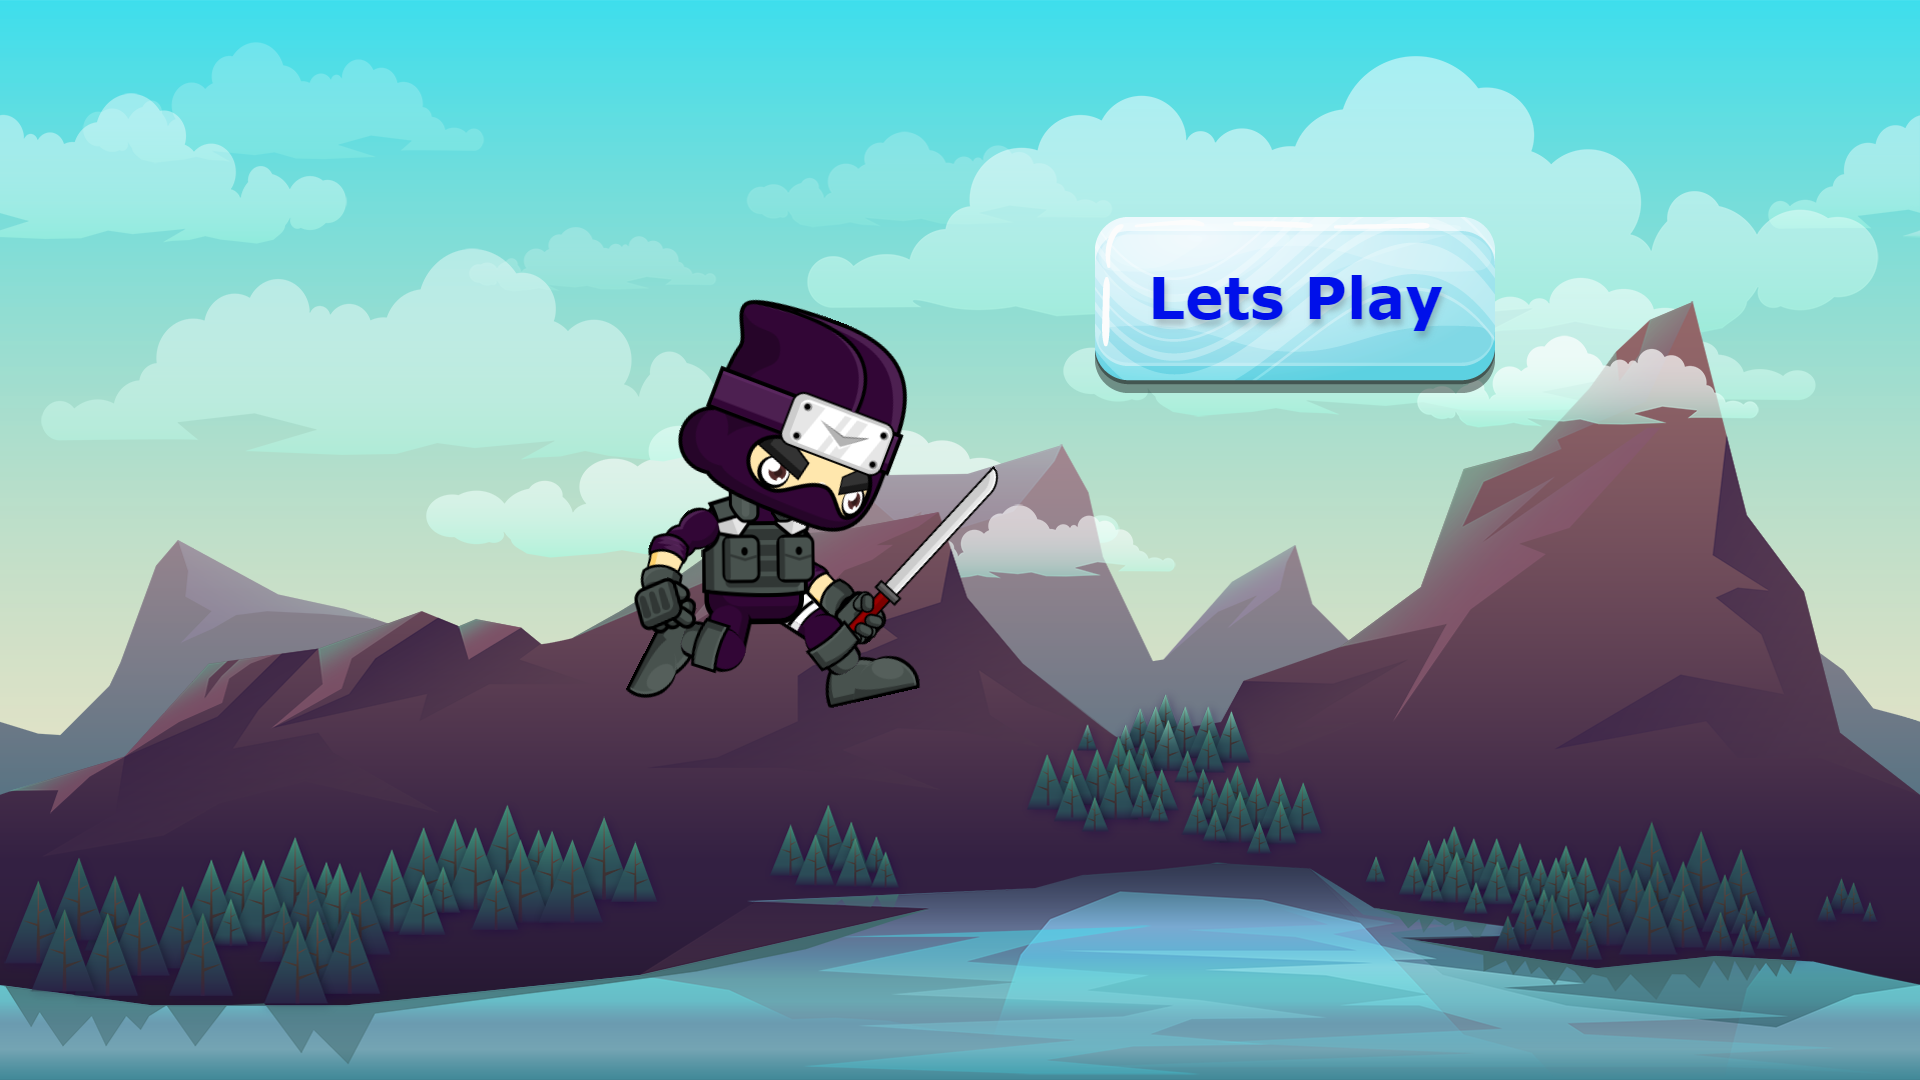
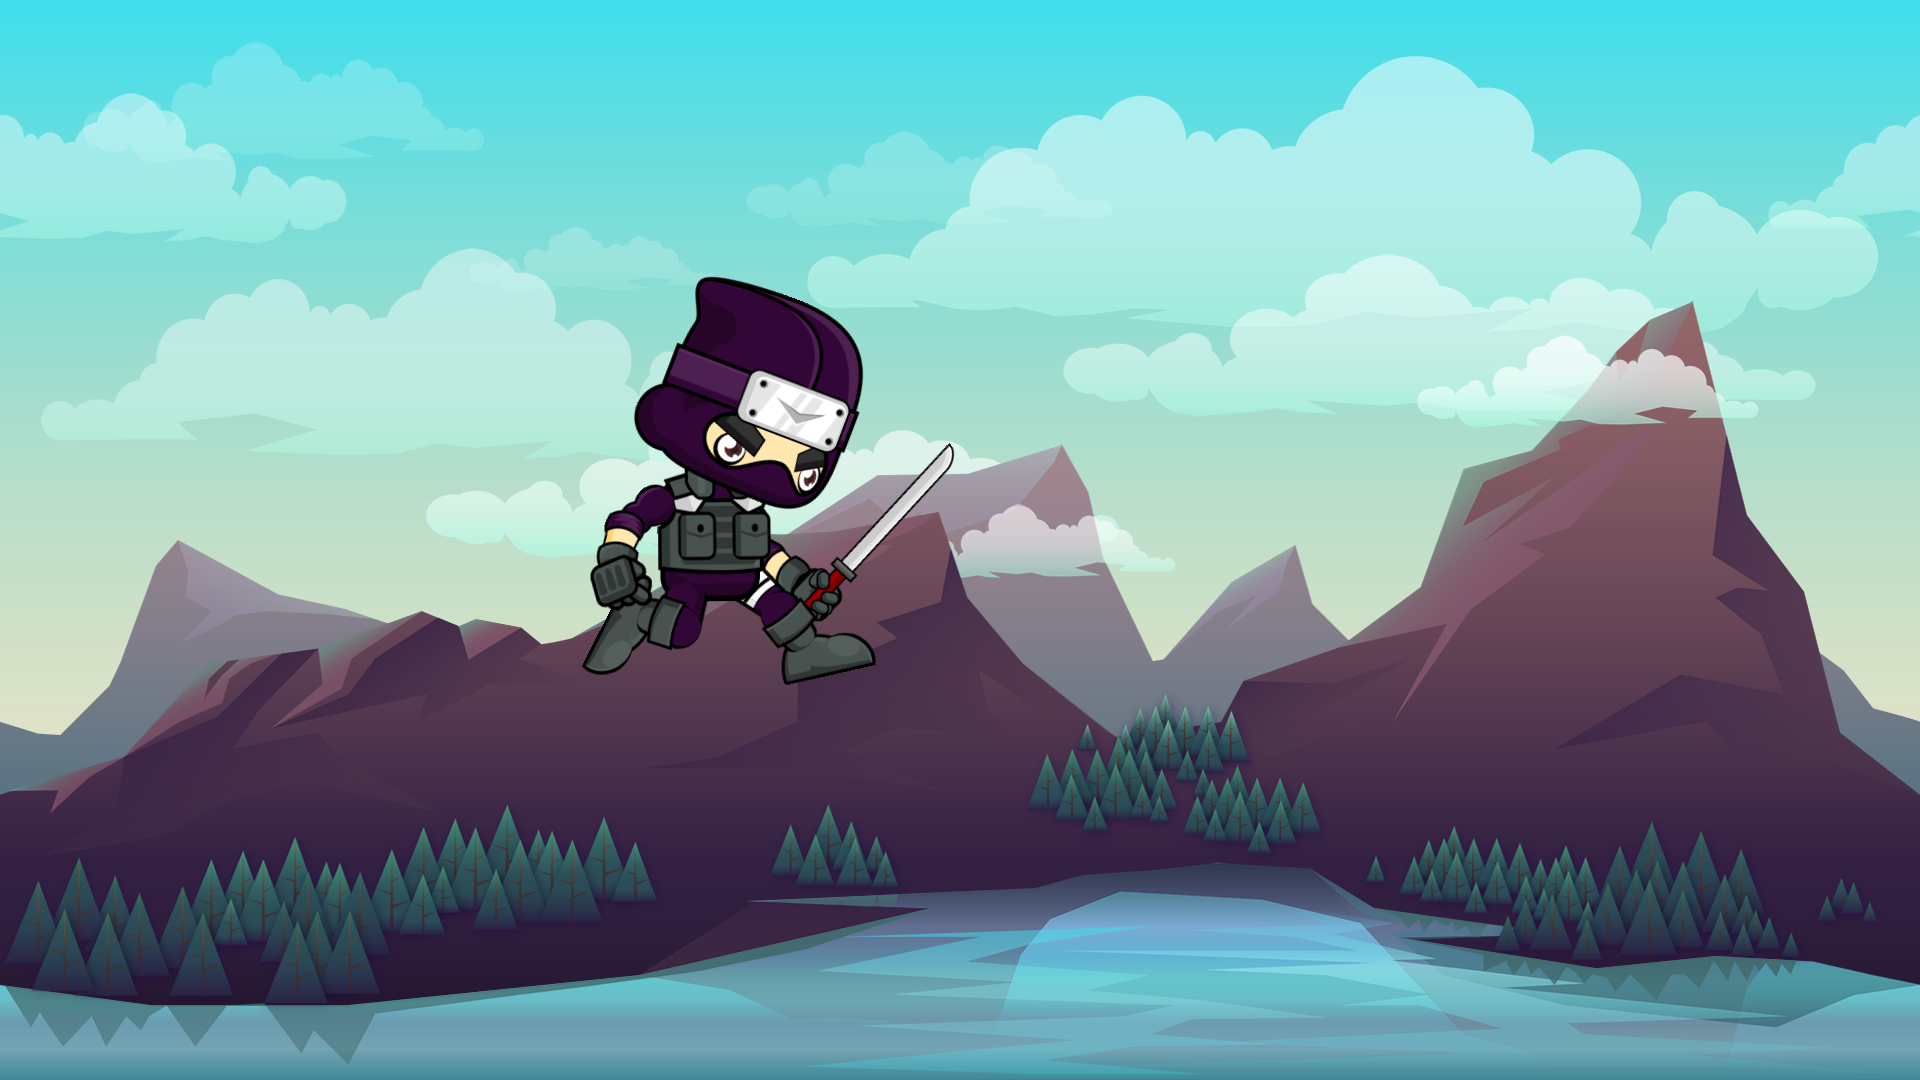
start and endscreens

Changed region(s): [[0.2812, 0.2444, 0.5312, 0.6722], [0.5625, 0.1833, 0.7812, 0.3667]]

diff --git a/style.css b/style.css
@@ -22,11 +22,14 @@ body {
 }
 
 h1 {
-    font-size: 40px;
-    font-weight: bolder;
+    margin: 0;
 }
 
-.d-none {
+#helpScreen{
+    display: none;
+}
+
+#btnScreen{
     display: none;
 }
 
@@ -43,89 +46,74 @@ canvas {
     margin-top: 10px;
 }
 
-.btnContainer {
+.playBtnContainer {
     display: flex;
     justify-content: space-evenly;
     width: 150px;
 }
 
-.btnContainer button {
+.playBtnContainer button {
     background-color: transparent;
     border-color: transparent;
 }
 
-.btnContainer img {
+.playBtnContainer img {
     width: 50px;
     height: 50px;
 }
 
 
 #startScreen {
-    height: 100vh;
-    width: 100vw;
+    height: 480px;
+    width: 780px;
     display: flex;
     justify-content: left;
     align-items: start;
     overflow: hidden;
     background-image: url('img/start_screen.png');
-    background-size: 100%;
+    background-size: cover;
     background-repeat: no-repeat;
-    max-width: 1000px;
+    border-radius: 30px;
 }
 
-#helpScreen{
-    display: none;
-}
-
-#BtnScreen{
-    display: none;
-}
 
 .btn {
     margin-top: 1%;
     margin-left: 1%;
+    cursor: pointer;
     border-color: transparent;
     background-color: transparent;
-    width: 235px;
-    height: 90px;
+    width: 150px;
+    height: 60px;
 }
 
 .btn img{
     border-radius: 20px;
-    width: 100%;
-    height: 100%;
+    width: 150px;
+    height: 60px;
 }
 
 .startImg {
-    max-width: 1000px;
+    height: 480px;
+    width: 780px;
+    border-radius: 30px;
+}
+
+
+.finishedGame {
+    cursor: pointer;
+    display: none;
+    flex-direction: column;
+    justify-content: center;
+    align-items: center;
+    overflow: hidden;
+    transition: all 2s ease-in-out;
+    transform: scale(1.0);
+}
+
+.finGameScreen{
     width: 100%;
-}
-
-.winnerImg {
-    max-width: 1000px;
-    min-width: 780;
-}
-
-#GameOverScreen {
-    position: absolute;
-    top: 10%;
-    flex-direction: column;
-    justify-content: center;
-    align-items: center;
-    overflow: hidden;
-    transition: all 2s ease-in-out;
-    transform: scale(1.0);
-}
-
-#wonGameScreen {
-    position: absolute;
-    top: 10%;
-    flex-direction: column;
-    justify-content: center;
-    align-items: center;
-    overflow: hidden;
-    transition: all 2s ease-in-out;
-    transform: scale(1.0);
+    object-fit: cover;
 }
 
 .restartBtn {
@@ -137,11 +125,28 @@ canvas {
 /* smartphone */
 @media only screen and (max-width: 780px) {
     canvas {
-        width: 100%;
+        width: 80%;
+    }
+
+    body {
+        background-size: cover;
+        background-repeat: no-repeat;
+    }
+
+    #startScreen, #helpScreen, #btnScreen, .finishedGame {
+        width: 100vw;
+        border-radius: 0;
     }
 
     .panelContainer {
         display: flex;
+    }
+
+    .startImg, .finGameScreen {
+        height: 100%;
+        width: 100%;
+        border-radius: 0px;
+        object-fit: cover;
     }
 
     h1 {
@@ -152,11 +157,16 @@ canvas {
 /* smartphone */
 @media only screen and (max-height: 480px) {
     canvas {
-        height: 90vh;
+        height: 80vh;
+    }
+
+    #startScreen, #helpScreen, #btnScreen, .finishedGame {
+        height: 100vh;
     }
 
     .panelContainer {
         display: flex;
+        margin-top: 2px;
     }
 
     h1 {

diff --git a/index.html b/index.html
@@ -30,12 +30,12 @@
 
 <body>
 
-    <h1>HENRY THE BRAVE NINJA</h1>
+    <h1><img src="img/headline.png" alt="Henry the brave Ninja"></h1>
 
-    <div id="startScreen" onclick="hideStartScreen()">
-        <button onclick="showButtonScreen()" class="btn"><img src="img/btn_buttons2.png"></button>;
-        <button onclick="showHelpScreen()" class="btn"><img src="img/btn_help2.png"></button>;
-        <!-- <img src="img/start_screen.png" class="startImg"> -->
+    <div id="startScreen" >
+            <button onclick="showButtonScreen()" class="btn"><img src="img/btn_buttons.png"></button>;
+            <button onclick="showHelpScreen()" class="btn"><img src="img/btn_help.png"></button>;
+            <button onclick="hideStartScreen()" class="btn"><img src="img/btn_letsplay.png"></button>;
     </div>
     <div id="helpScreen" onclick="showStartScreen()">
         <img src="img/help_screen.png" class="startImg">
@@ -47,23 +47,23 @@
     <canvas id="canvas" height="480px" width="780px">
 
     </canvas>
-    <div class="panelContainer">
-        <div class="btnContainer">
+    <div id="GameOverScreen" class="finishedGame">
+        <img src="img/Game_Over.png" class="finGameScreen" onclick="window.location.reload();">
+        <!-- <img src="img/restartBtn.png" class="restartBtn" onclick="window.location.reload();"> -->
+    </div>
+    <div id="wonGameScreen" class="finishedGame">
+        <img src="img/winner.jpg" class="finGameScreen" onclick="window.location.reload();">
+        <!-- <img src="img/restartBtn.png" class="restartBtn" onclick="window.location.reload();"> -->
+    </div>
+    <div id="panelcontainer" class="panelContainer">
+        <div class="playBtnContainer">
             <button id="btnLeft"><img src="img/icon/arrow-left.png"></button>
             <button id="btnRight"><img src="img/icon/arrow-right.png"></button>
         </div>
-        <div class="btnContainer">
+        <div class="playBtnContainer">
             <button id="btnUp"><img src="img/icon/arrow-up.png"></button>
             <button id="btnThrow"><img src="img/icon/arrow-throw.png"></button>
         </div>
-    </div>
-    <div id="GameOverScreen" class="d-none">
-        <img src="img/Game_Over.png" class="startImg">
-        <img src="img/restartBtn.png" class="restartBtn" onclick="window.location.reload();">
-    </div>
-    <div id="wonGameScreen" class="d-none">
-        <img src="img/winner.jpg" class="winnerImg">
-        <img src="img/restartBtn.png" class="restartBtn" onclick="window.location.reload();">
     </div>
 </body>
 

diff --git a/js/game.js b/js/game.js
@@ -11,28 +11,32 @@ function init() {
 
 function hideStartScreen() {
     document.getElementById('startScreen').style.display = "none";
-    checkIfInitGame()
+    document.getElementById('helpScreen').style.display = "none";
+    document.getElementById('btnScreen').style.display = "none";
+    document.getElementById('canvas').style.display = "block";
+    init();
 }
 
 function showStartScreen() {
     document.getElementById('startScreen').style.display = "flex";
     document.getElementById('helpScreen').style.display = "none";
     document.getElementById('btnScreen').style.display = "none";
-    checkIfInitGame()
+    document.getElementById('canvas').style.display = "none";
+    // checkIfInitGame();
 }
 
 function showHelpScreen() {
     document.getElementById('startScreen').style.display = "none";
     document.getElementById('helpScreen').style.display = "block";
     document.getElementById('btnScreen').style.display = "none";
-    checkIfInitGame()
+    document.getElementById('canvas').style.display = "none";
+    // checkIfInitGame();
 }
 
 function showButtonScreen() {
     document.getElementById('startScreen').style.display = "none";
     document.getElementById('helpScreen').style.display = "none";
     document.getElementById('btnScreen').style.display = "block";
-    checkIfInitGame()
 }
 
 
@@ -41,7 +45,7 @@ function checkIfInitGame() {
         document.getElementById('helpScreen').style.display == "none" &&
         document.getElementById('btnScreen').style.display == "none") {
         document.getElementById('canvas').style.display = "block";
-        init()
+        init();
     }
 }
 

diff --git a/models/character.class.js b/models/character.class.js
@@ -113,7 +113,8 @@ class Character extends MovableObject {
             this.looseGame.play();
             document.getElementById('GameOverScreen').style.display = "flex";
             document.getElementById('canvas').style.display = "none";
-        }, 5000);
+            document.getElementById('panelcontainer').style.display = "none";
+        }, 3000);
     }
 
 

diff --git a/models/treasurechest.class.js b/models/treasurechest.class.js
@@ -43,6 +43,7 @@ class Treasure extends MovableObject {
         setTimeout(() => {
             document.getElementById('wonGameScreen').style.display = "flex";
             document.getElementById('canvas').style.display = "none";
+            document.getElementById('panelcontainer').style.display = "none";
         }, 3000);
     }
 
